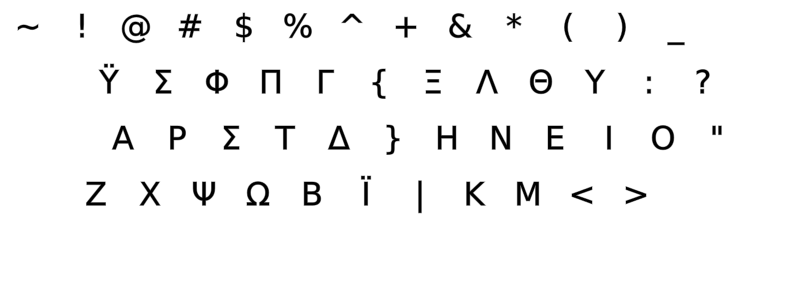
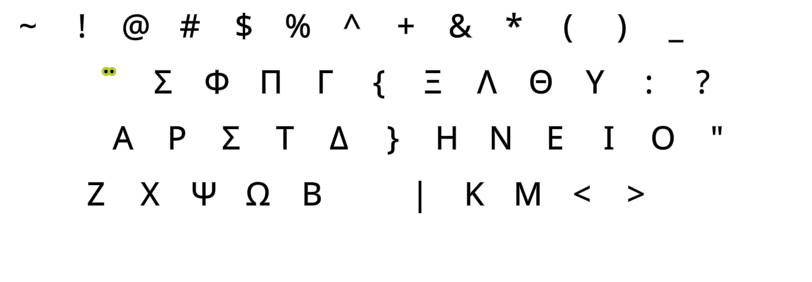
Reworked the Greek Colemak layouts
* Instead of diaeresis letters, there's now Tonos/Diaeresis dead keys on Q
* This frees the ISO key for the useful Compose key which also helps Greek
* Thanks to MortuusCattus on the Colemak Discord for the suggestion!

diff --git a/Source/README.md b/Source/README.md
@@ -442,6 +442,11 @@ DONE:
 	- Fixed: Several language files had the wrong encoding so menus became full of `�` symbols.
 	- Prefix-Entry documentation updated, in main and Files README. Also added to the KeyMapper Help screen.
 	- The "kaomoji" speech bubbles and other links are now PowerStrings, and their Compose and DeadKey entries updated.
+	- Remaps in BaseLayout files are now fully respected on their own, so a Remap section in the layout.ini file is no longer mandatory.
+	- Added the Semimak-JQ variant. It's a little Q > J > QU cycle from the original.
+	- Dead key images for Colemak-CAW variants now point to CAWS images since I'll be trying to support only the best and most popular combos.
+	- Reworked the Greek Colemak locale layouts, replacing the rare diaeresis letters on Q and ISO with Tonos/Diaeresis DKs and the default Compose.
+		- Note that Compose allows accented/polytonic Greek letters to be written as sequences using punctuation.
 <br>
 
 TODO:
@@ -452,19 +457,24 @@ TODO:
 * Dead key chaining, allowing one DK to release another.
 	- EPKL allows the @## syntax but it doesn't work as it should yet. Because it resets PVDK?
 	- Chainable dead keys would allow a true Mother-of-DKs for Compose-like "tap dance" sequences like {MoDK,t,n}->ñ.
-* Check whether Ralt (SC138 without LCtrl) will be AltGr consistently in layouts with state 6-7.
+* Rework the AltGr code. Check whether Ralt (SC138 without LCtrl) will be AltGr consistently in layouts with state 6-7.
 * Add to unmapped dead key functionality
-	- Specify release for unmapped sequences. Today's practice of leaving an accent then the next character is often bad.
+	- Specify release for unmapped sequences. Today's practice of leaving an accent then the next character is often bad?
 	- That way, one could for instance use the Vietnamese Telex method with aou dead keys (aw ow uw make â ô ư) etc.
 	- One catch would be that the dead key wouldn't release until next key press, but that may be acceptable.
 	- Specify, e.g., the entry for s1 similar to today's s0 entry. (U+0000–U+001F are just ‹control› chars.)
 	- That'd be backwards compatible with existing PKL tables, and one can choose behavior.
 * Truly transparent image background without the image frame. Overall transparency (but not transparent color?) works.
 	- Transparent foreground images for all states and dead keys.
-* Some more dead key mappings:
-	- Greek polytonic accents? Need nestable accents, e.g., iota with diaeresis and tonos. See https://en.wikipedia.org/wiki/Greek_diacritics for tables.
-	- Kyrillic special letters like ёЁ (for Bulmak) җ ӆ ҭ ң қ ӎ (tailed); see the Rulemak topic
-	- IPA on AltGr+Shift symbol keys?
+* More dead key mappings:
+	- Greek polytonic accents? Need nestable accents, e.g., iota with diaeresis and tonos. May be done by Compose instead, though.
+	- Kyrillic special letters like ёЁ (for Bulmak) җ ӆ ҭ ң қ ӎ (tailed); see the Rulemak topic.
+	- IPA on AltGr+Shift symbol keys?! A proposed system based on phonetics, having DKs based on position and suchlike.
+		- DKs for vowels rounded/unrounded (near-)front, central, (near-)back. Release w/ I(YU)-E(ØO)-O(Œ)-A(Æ) for close-open, U/Y?/Æ for inbetweens?
+		- For consonants, DKs for (bi-)labial, dental, (post-)alveolar, retroflex, palatal, velar, uvular, pharyngeal/glottal?
+		- Release with the voiced/unvoiced P/B, T/D, M, N, R, F/V, S/H, L. Have to tweak it a little to account for the whole chart.
+		- Also need to provide clicks (! etc), voiced implosives (hooked), ejectives (ʼ), diacritics and others. May sequence DKs for that?
+		- Apart from combining diacritics, IPA needs superscript `ʰ ⁿ ᶿ ᵊ ˡ ˣ ʷ ˠ ˤ ʲ`. The Acute DK should be enough... except it conflicts for nlw.
 <br>
 
 INFO: Some documentation notes

diff --git a/Layouts/Colemak/Cmk-eD-Gre/README.md b/Layouts/Colemak/Cmk-eD-Gre/README.md
@@ -17,11 +17,15 @@ Some locales traditionally use ANSI keyboards though, and some prefer to use the
 
 Colemak-Gre Greek phonetic layout variant
 -----------------------------------------
-- For the Greek phonetic layout, some choices were made 
-- It's for the most part similarly mapped as the Greek dead key usually found on AltGr+5
-- The two diaeresis letters Ϋϋ/Ϊϊ were added to Q and the ISO key, to ease input. But they are quite rare...
-- Full polytonic Greek still would require a lot more DK mappings, or Compose
-- Another way is combining accents, if those are supported in your application
+- For the Greek phonetic layout, some choices were made as not all letters correspond directly to each other.
+- It's for the most part similarly mapped as the Greek dead key usually found on AltGr+5.
+- The common Tonos (acute) accent is needed in an accessible spot. The Q key holds it and Diaeresis (umlaut).
+- The two diaeresis letters Ϋϋ/Ϊϊ could've been on Q and the ISO key, to ease input. But they are quite rare.
+- Instead, the ISO key (if you have it) is used as a Compose key. See the [Big Bag][orgBBT] pages for info.
+- The acute/Tonos and umlaut/Diaeresis accents are added on Q for easy access. This is similar to the Greek XKB layout.
+- Full polytonic Greek requires a lot more mappings in the tables of several DKs, or using [Compose][CmpIni].
+- Another way is to use combining accents, if those are supported in your application
+- You can type `;'υ` then Compose to get `ΰ`, or even type full katharevousa like `~(η` then Compose for `ἧ`.
 <br>
 
 |![EPKL help image for Colemak-eD-Gre CAWS on an ISO board, unshifted state](./Cmk-eD-Gre_ISO_CurlAWideSym/state0.png)|
@@ -31,3 +35,7 @@ Colemak-Gre Greek phonetic layout variant
 |![EPKL help image for Colemak-eD-Gre CAWS on an ISO board, AltGr state](./Cmk-eD-Gre_ISO_CurlAWideSym/state6.png)|
 |   :---:   |
 |_Colemak-eD-Gre_ISO_CAWS, AltGr state_|
+
+
+[orgBBT]: https://dreymar.colemak.org/ (DreymaR's Big Bag of Keyboard Tricks)
+[CmpIni]: ./Files/_eD_Compose.ini (EPKL Compose file)
